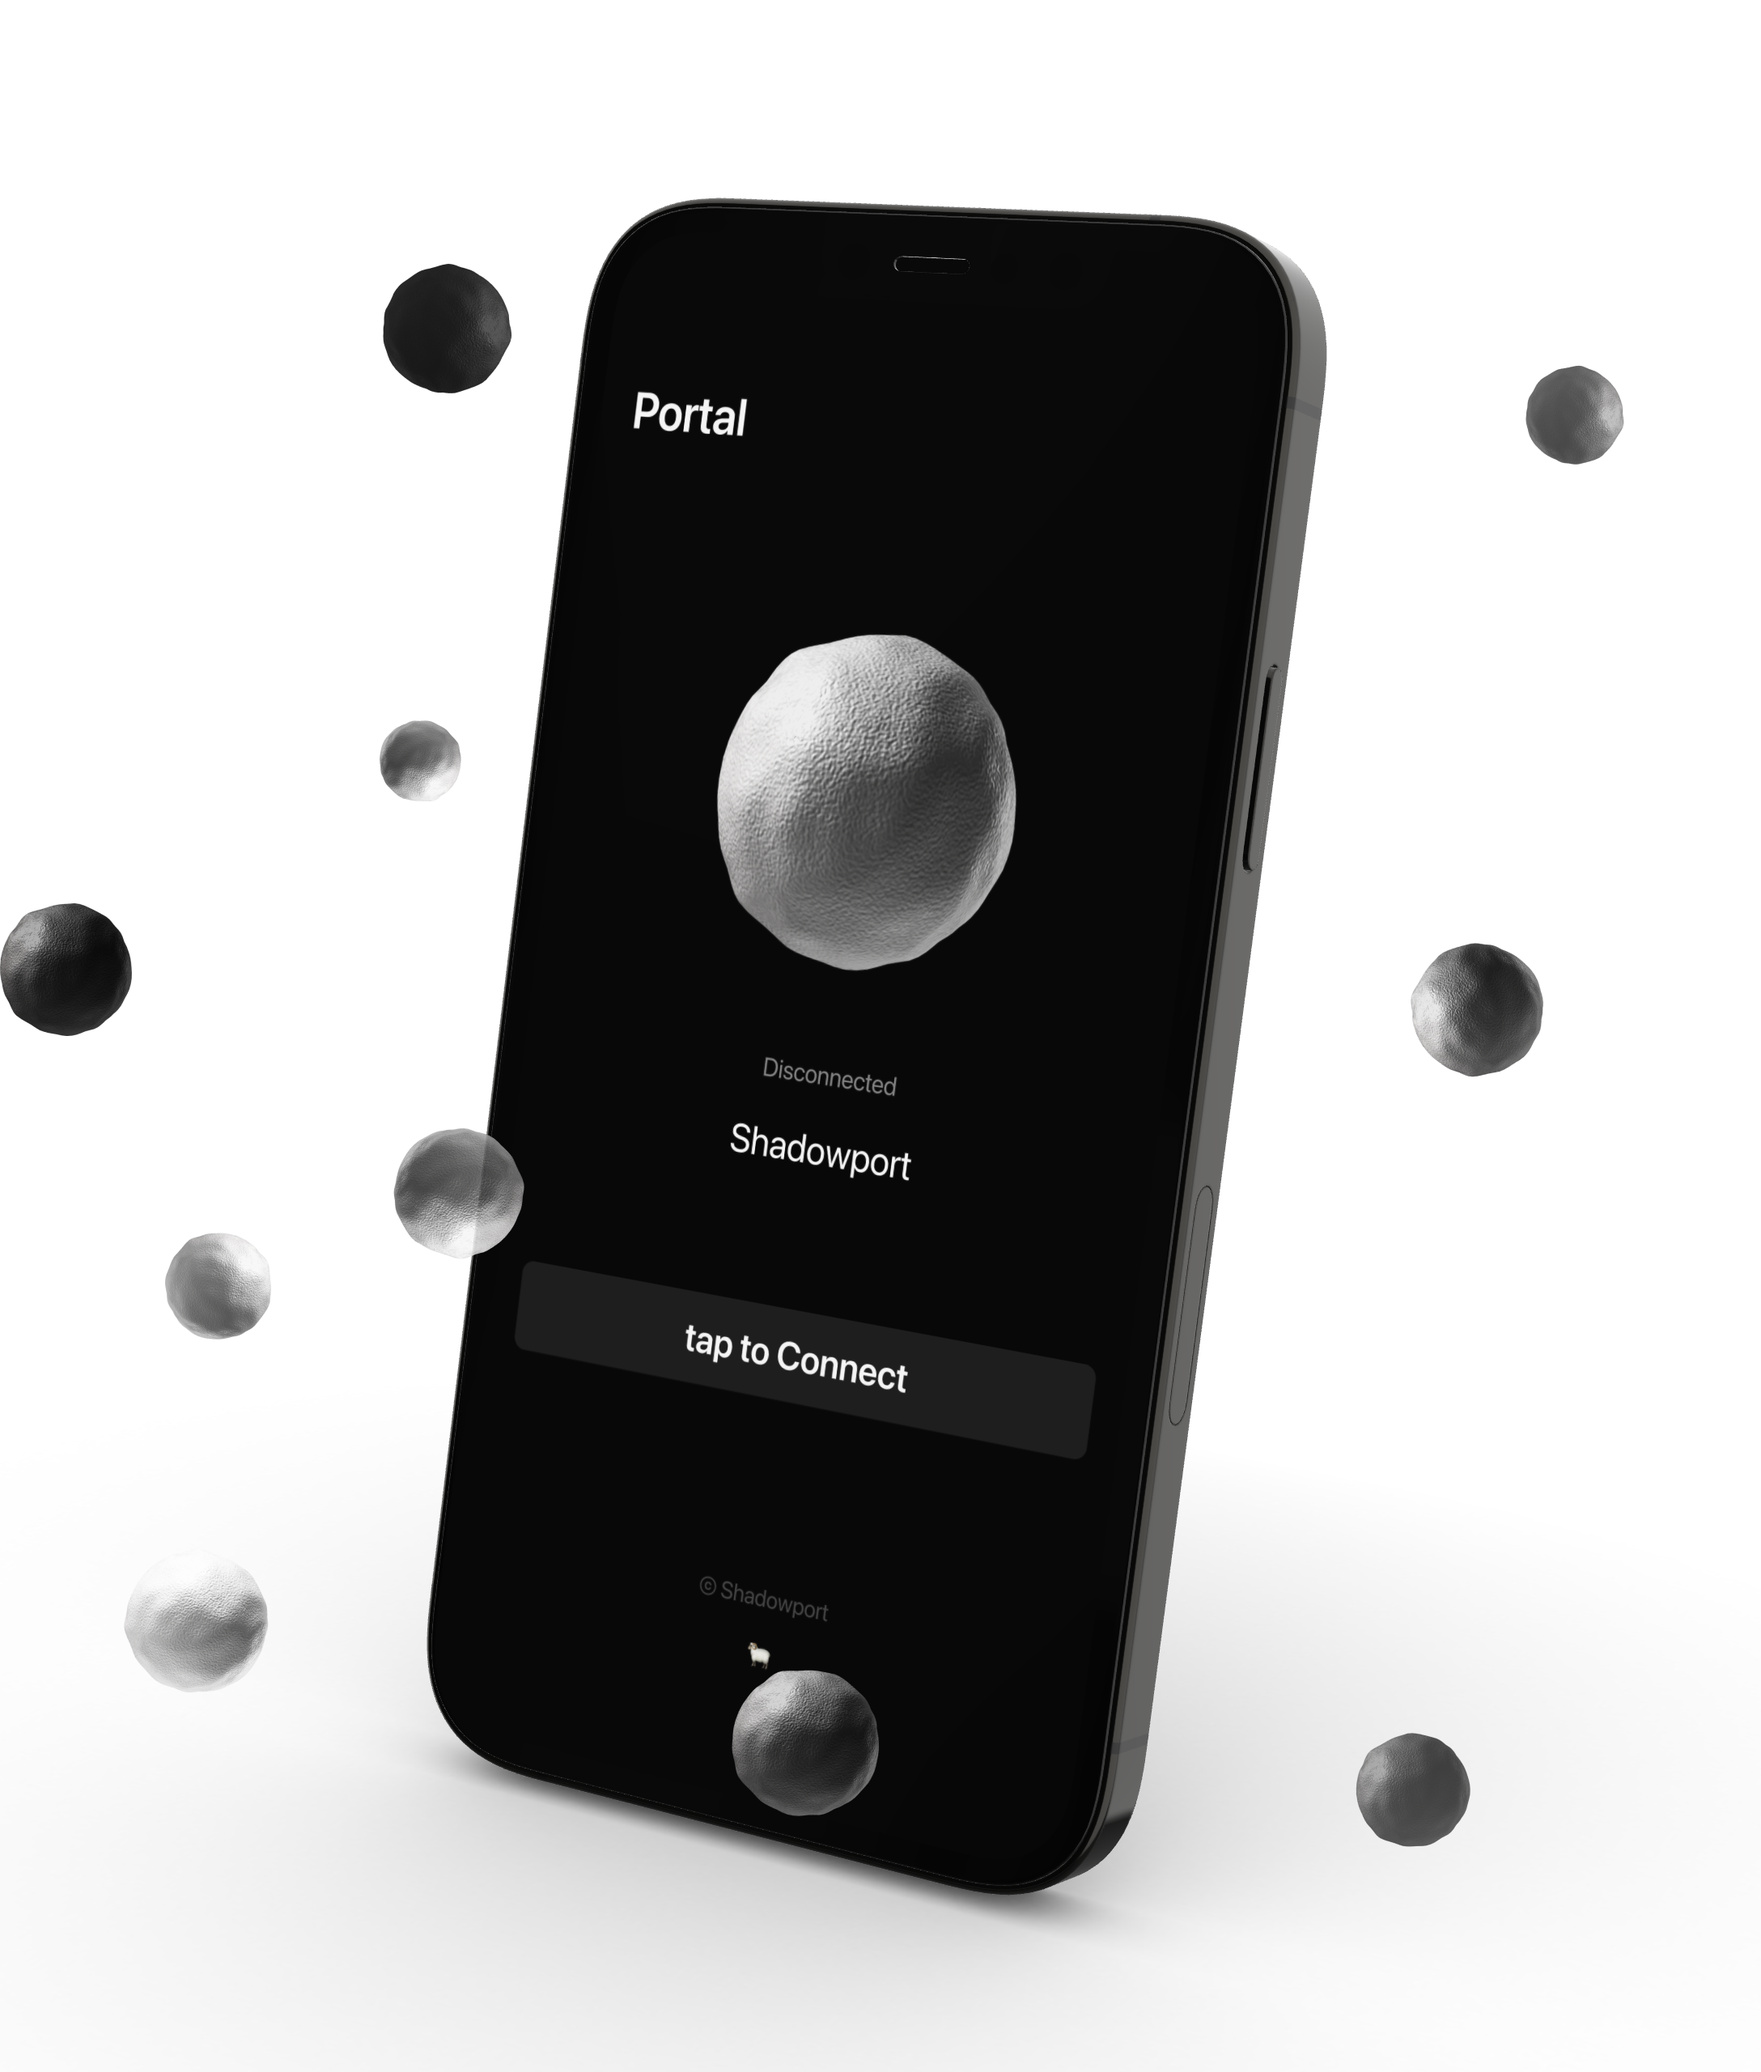
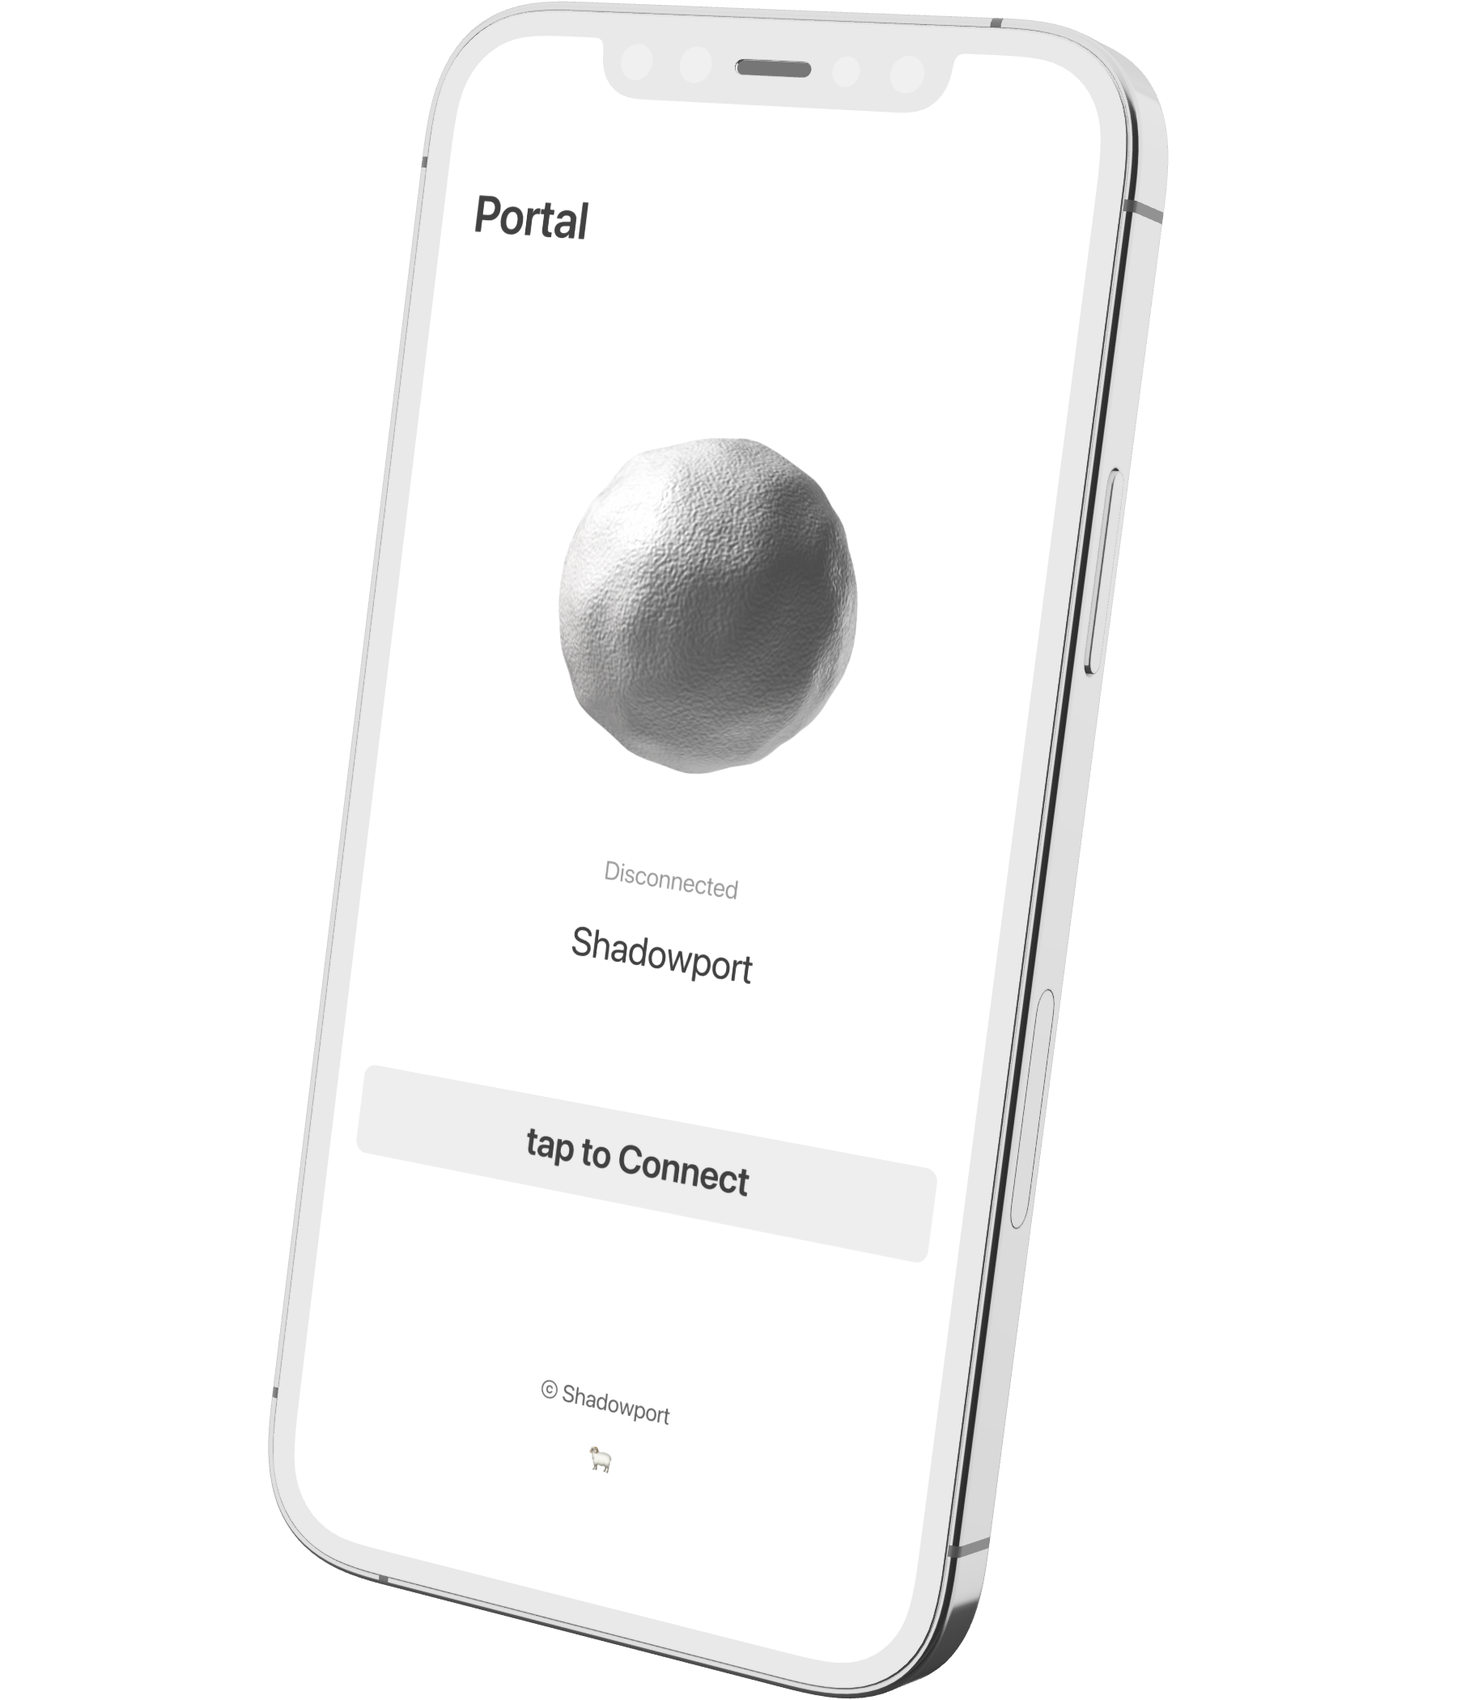
light preview

diff --git a/index.html b/index.html
@@ -90,7 +90,10 @@
     <div class="button-wrapper">
       <div class="app-preview">
         <div>
-          <img src="resources/css/images/preview3.png" />
+          <picture>
+            <source srcset="resources/css/images/preview3.png" media="(prefers-color-scheme: dark)">
+            <img src="resources/css/images/preview.png" />
+          </picture>
         </div>
       </div>
 

diff --git a/resources/css/style.css b/resources/css/style.css
@@ -590,7 +590,7 @@ p#enter-label {
 
 
 
-.app-preview img {
+.app-preview picture img {
   position: absolute;
   width: 100%;
 }
